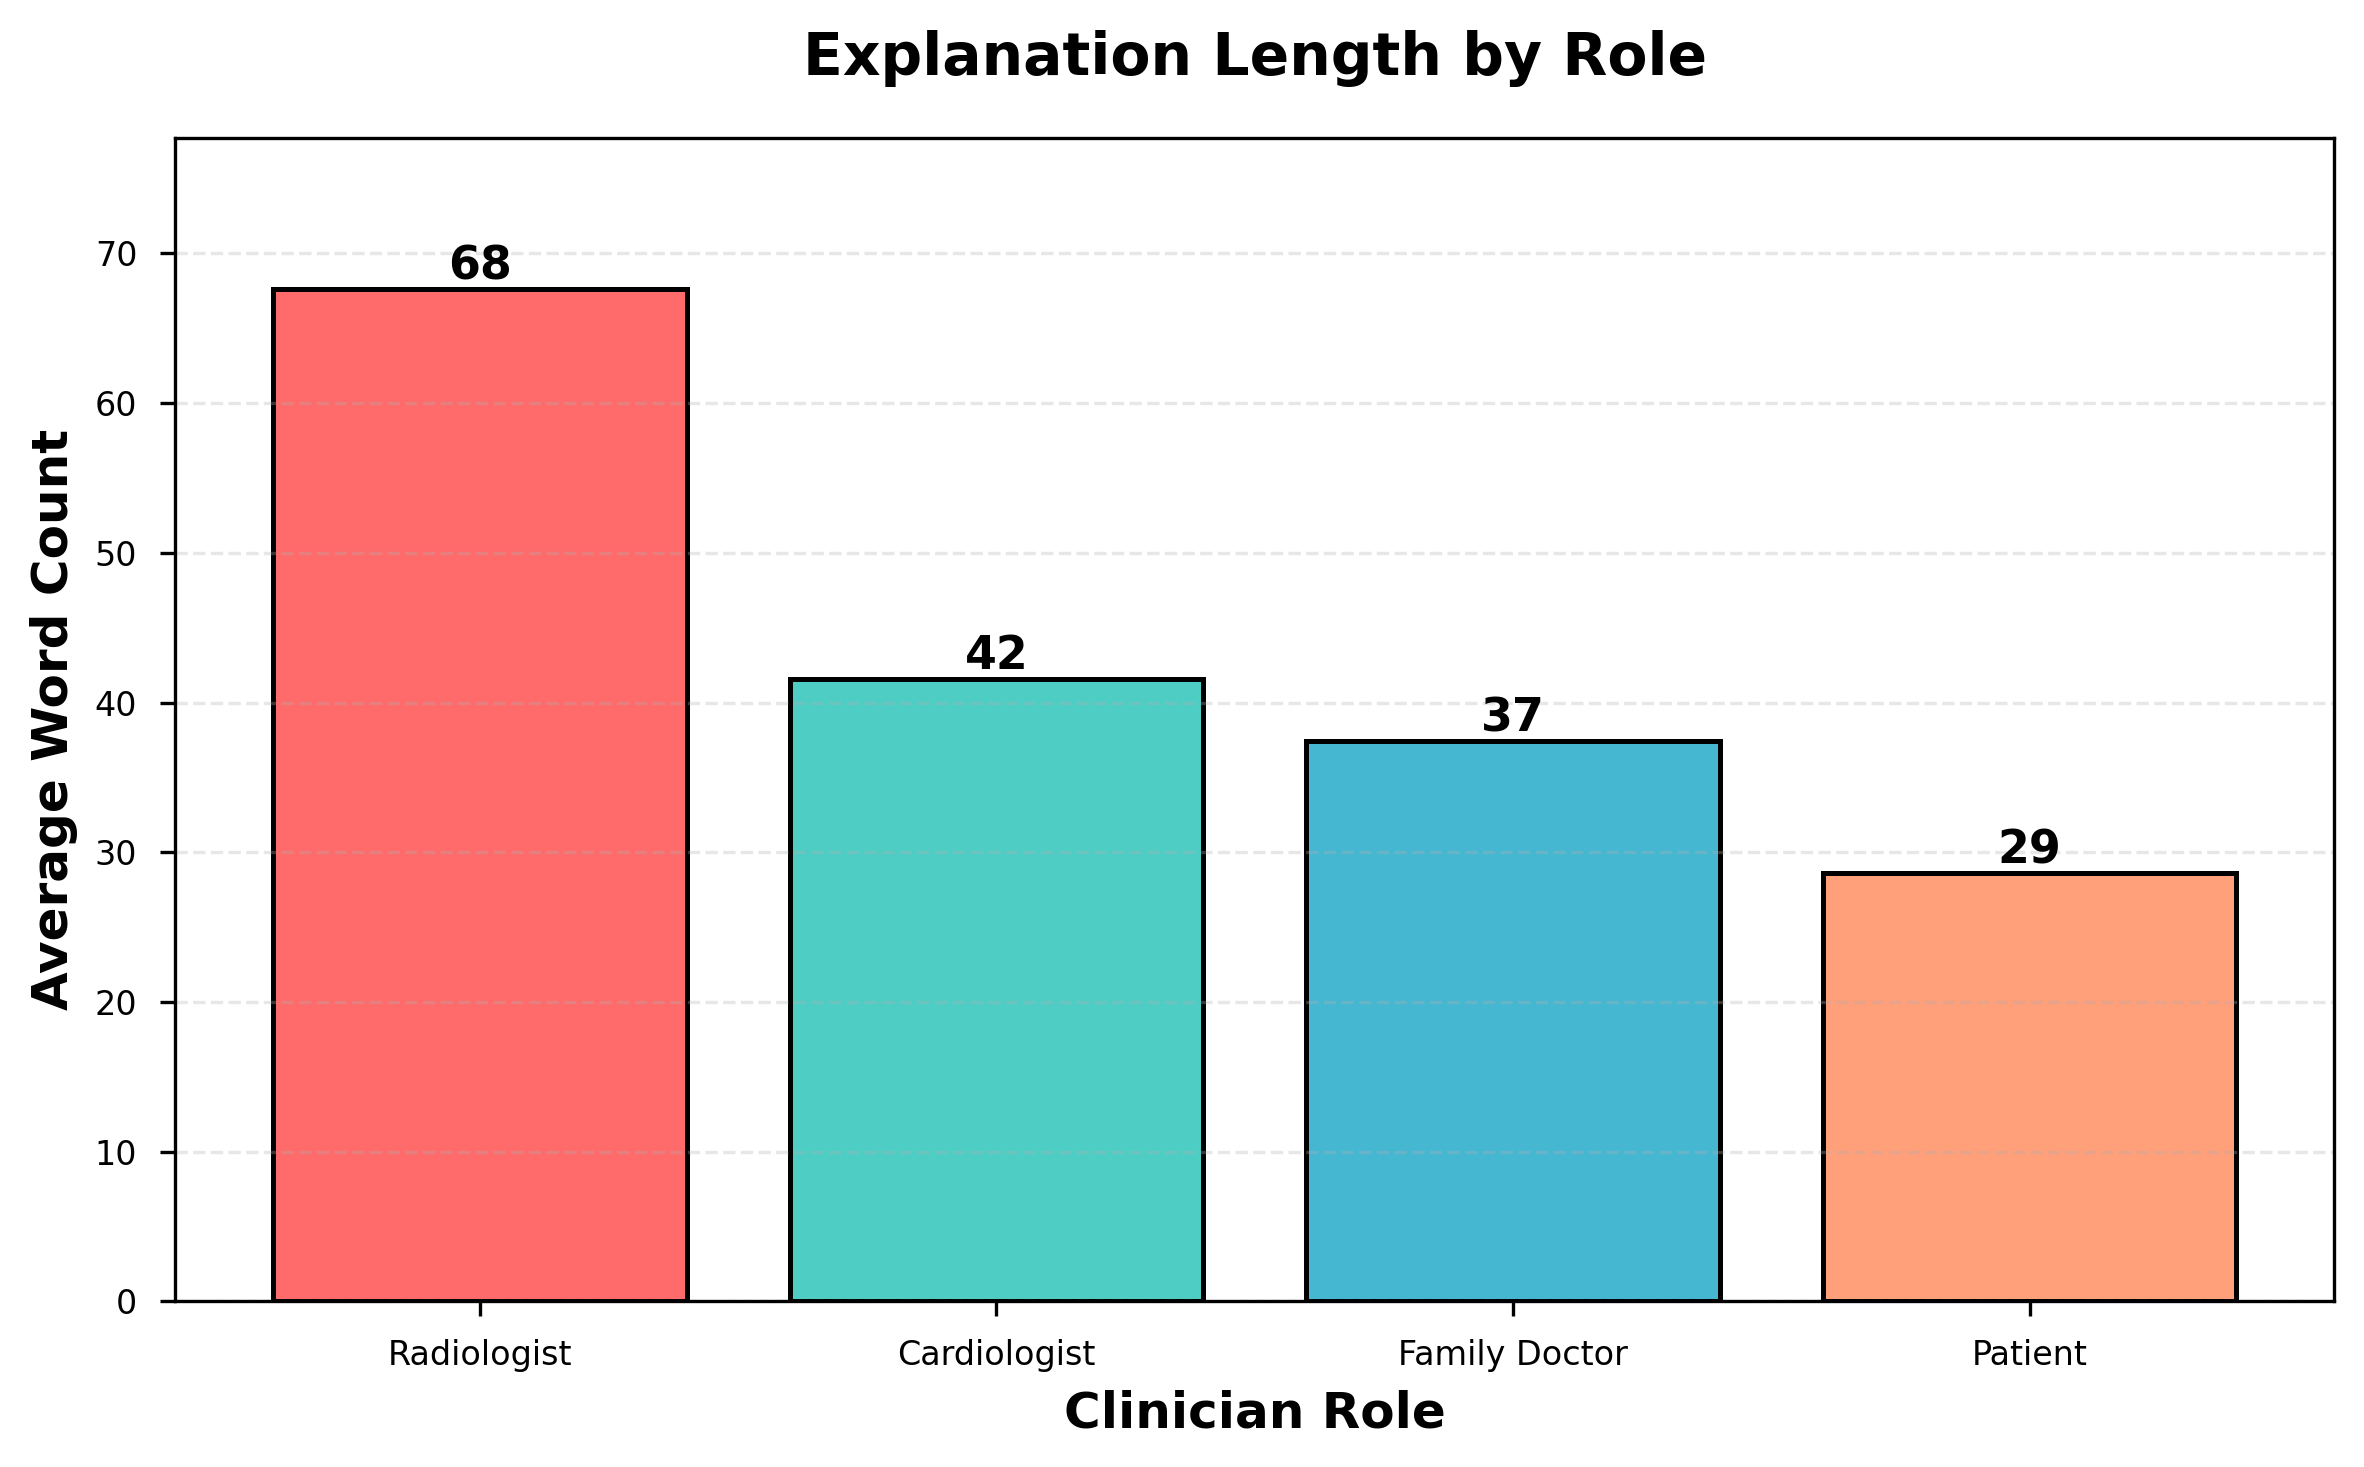
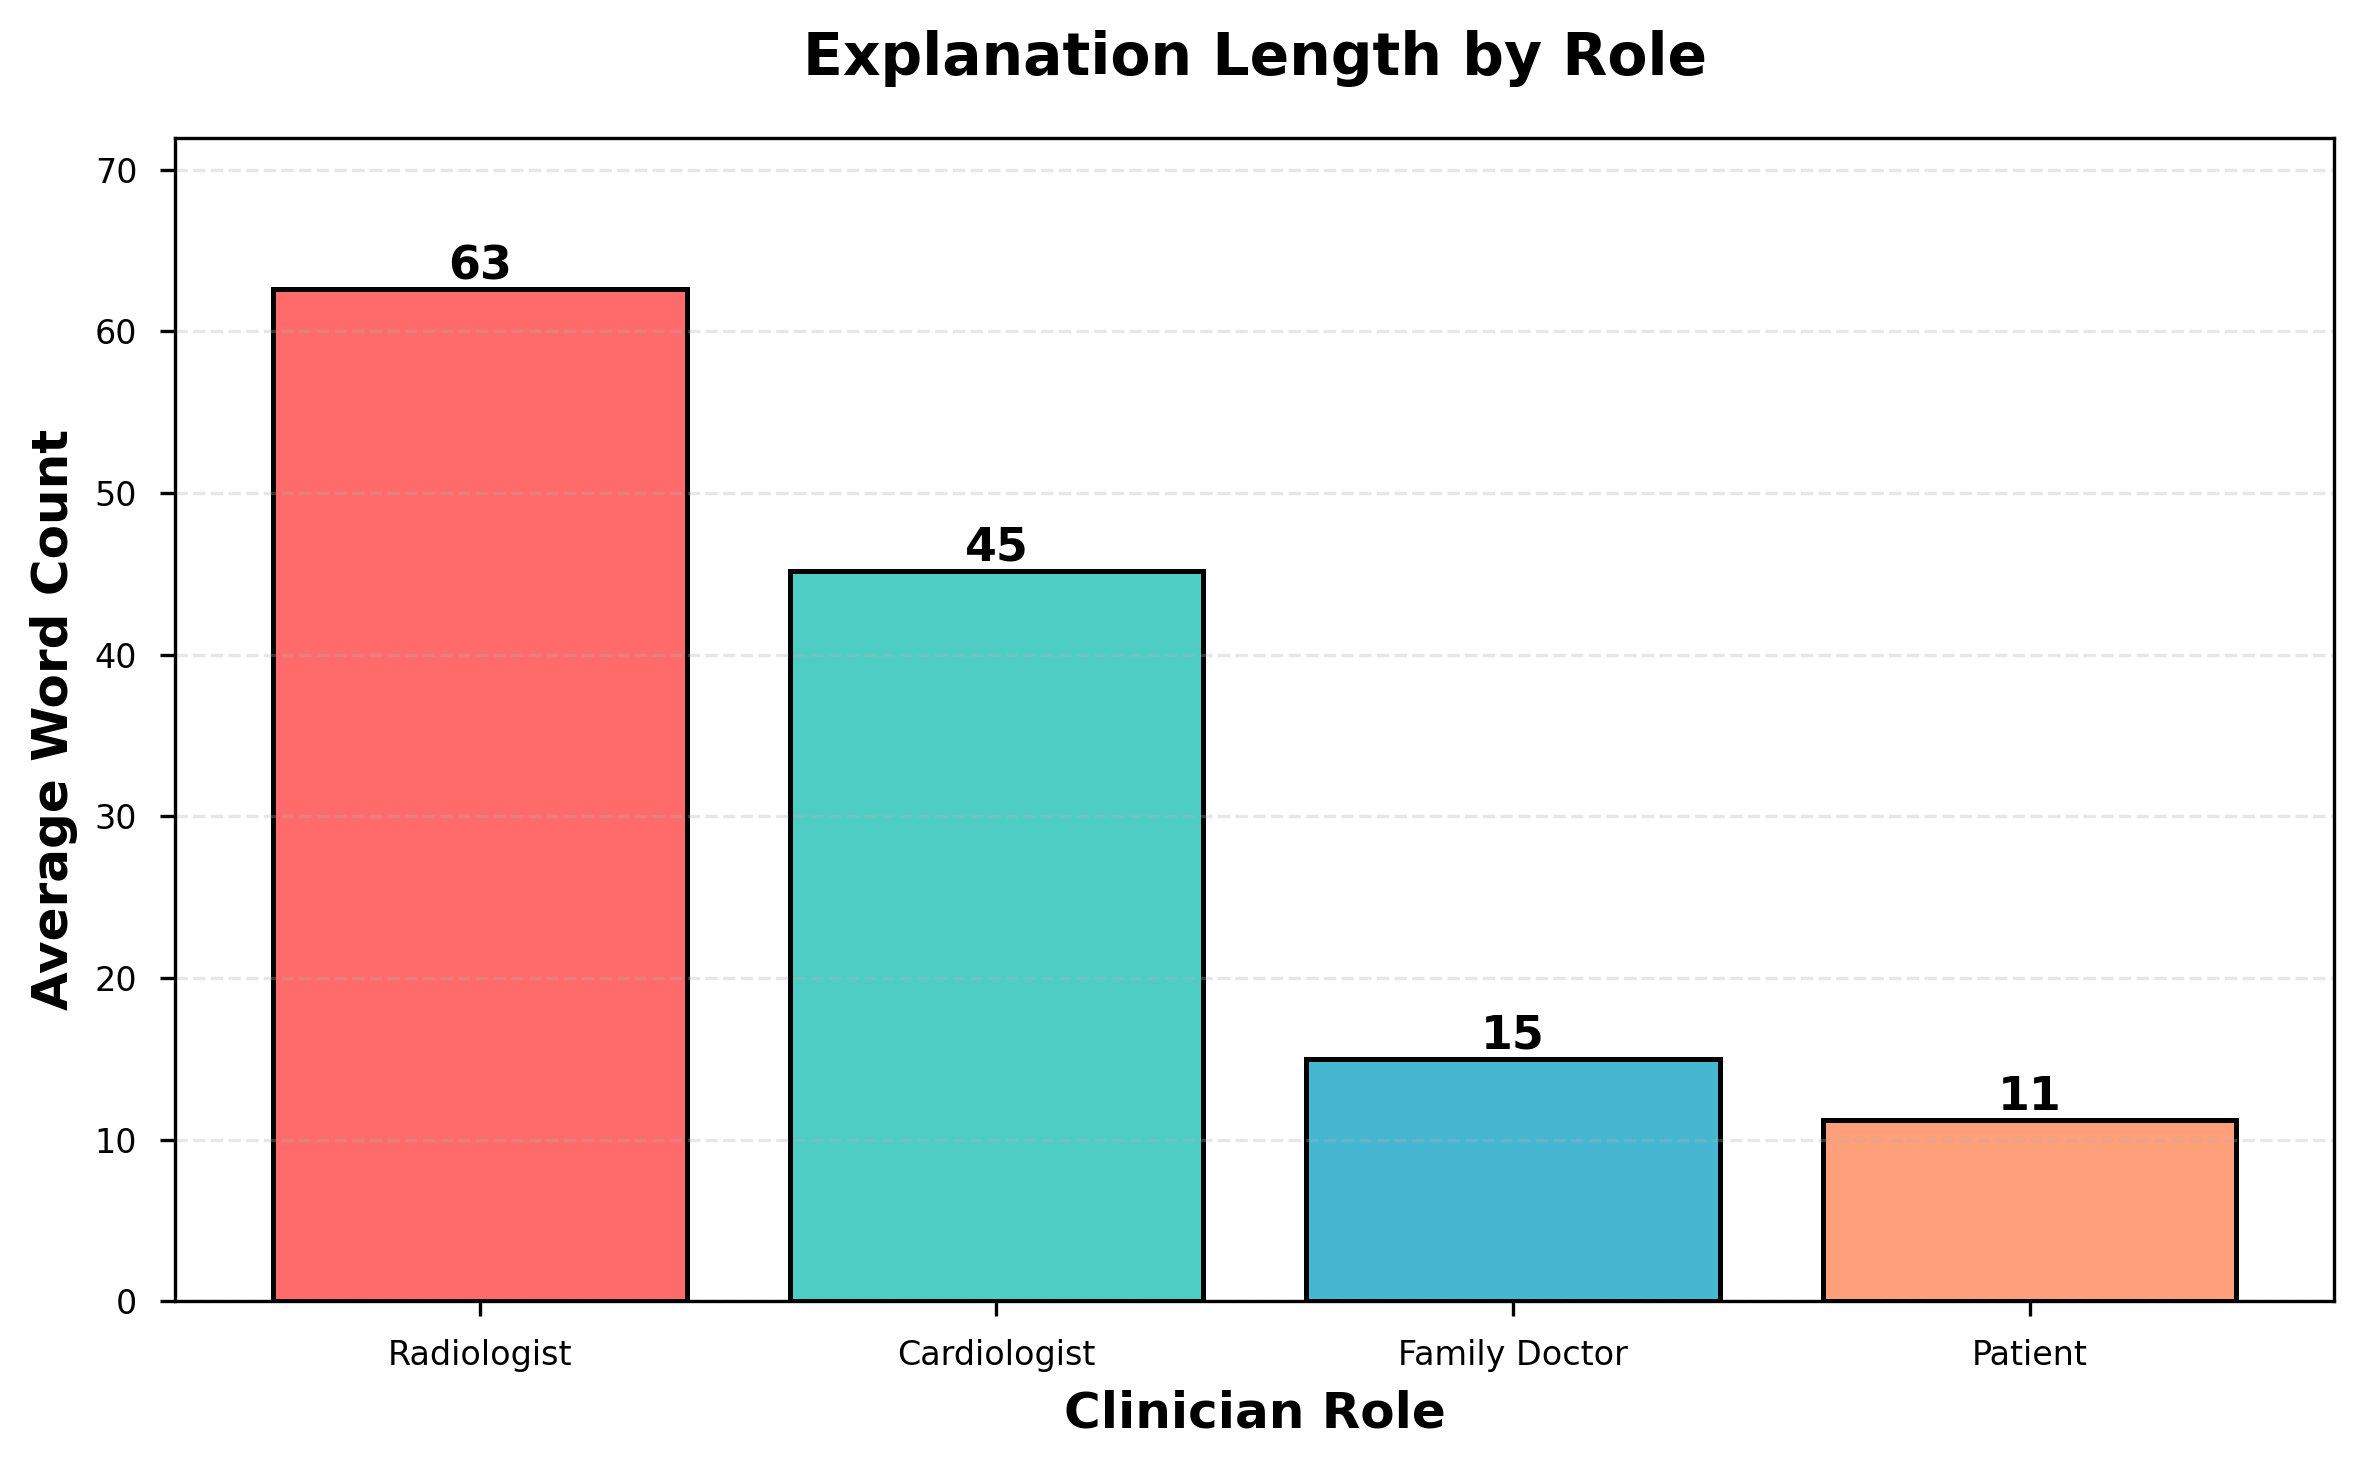
Graphs fixed

diff --git a/code/2_generate_explanations.py b/code/2_generate_explanations.py
@@ -89,48 +89,59 @@ def create_prompt(patient_data, top_features_info, role):
 Patient Data: {patient_str}
 Most Important Risk Factors (by SHAP analysis): {top_features_info}
 
-Provide a TECHNICAL explanation using precise medical terminology. Include:
-- Specific cardiovascular imaging correlates
-- Quantitative risk stratification terminology
-- Reference to vessel disease burden if applicable
+Provide a HIGHLY TECHNICAL explanation using advanced medical terminology. Include:
+- Specific cardiovascular imaging correlates and anatomical references
+- Quantitative risk stratification using clinical scoring systems
+- Detailed vessel disease burden assessment
+- Technical SHAP value interpretation
 
-Keep response under 110 words. Be technical and precise. Use medical jargon.""",
+IMPORTANT: Write at a GRADUATE-LEVEL medical complexity (Flesch-Kincaid Grade 14-16).
+Use specialized radiology terminology, quantitative metrics, and precise clinical nomenclature.
+Keep response under 110 words.""",
 
         'cardiologist': f"""You are a cardiologist explaining heart disease risk to another physician.
 
 Patient Data: {patient_str}
 Key Risk Factors (SHAP importance): {top_features_info}
 
-Provide a CLINICAL explanation including:
-- Pathophysiological significance of findings
-- Clinical decision points
-- Recommended follow-up actions (e.g., cardiology referral, stress test)
+Provide a COMPREHENSIVE CLINICAL explanation including:
+- Pathophysiological mechanisms linking risk factors to outcomes
+- Hemodynamic and electrophysiological significance
+- Evidence-based clinical decision points
+- Specific diagnostic and therapeutic recommendations
 
-Keep response under 90 words. Use medical language but focus on actionable clinical steps.""",
+IMPORTANT: Write at MEDICAL SCHOOL level complexity (Flesch-Kincaid Grade 12-14).
+Use clinical cardiology terminology but focus on actionable management.
+Keep response under 100 words.""",
 
-        'family_doctor': f"""You are a family doctor explaining heart disease risk assessment to yourself for patient management.
+        'family_doctor': f"""You are a family doctor explaining heart disease risk to a colleague in primary care.
 
 Patient Data: {patient_str}
 Main Risk Factors: {top_features_info}
 
-Provide a BALANCED explanation that:
-- Uses medical terms but keeps explanations practical
-- Focuses on next steps (lifestyle, specialist referral, medications)
-- Balances detail with clarity
+Provide a SIMPLE, PRACTICAL explanation that:
+- AVOIDS complex medical jargon - use plain medical terms only
+- Uses short sentences (under 15 words each)
+- Focuses on practical next steps: lifestyle, referral, basic medications
+- Prioritizes clarity over technical precision
 
-Keep response under 75 words. Be clear and actionable for primary care.""",
+CRITICAL: Write at HIGH SCHOOL reading level (Flesch-Kincaid Grade 8-10).
+NO abbreviations, NO complex terminology, NO multi-syllable medical words.
+Keep response under 60 words. Be brief and actionable.""",
 
-        'patient': f"""You are explaining heart disease risk to a patient with no medical background who just received test results.
+        'patient': f"""You are explaining heart disease risk to a patient who has never studied medicine.
 
 Key Risk Factors Found: {top_features_info}
 
-Provide a SIMPLE, ENCOURAGING explanation that:
-- Uses everyday language (absolutely NO medical jargon)
-- Explains what these findings mean for their health
-- Focuses on what the patient CAN DO (lifestyle changes, seeing specialist)
-- Remains positive and supportive
+Provide an EXTREMELY SIMPLE explanation that:
+- Uses only everyday words a 10-year-old would understand
+- Uses very short sentences (under 10 words each)
+- Focuses on feelings and actions, not medical facts
+- Is warm, encouraging, and supportive
 
-Keep response under 55 words. Be warm, clear, and motivating."""
+CRITICAL: Write at ELEMENTARY SCHOOL reading level (Flesch-Kincaid Grade 5-6).
+NO medical words at all. NO numbers or statistics.
+Keep response under 45 words. Be kind and hopeful."""
     }
     
     return prompts[role]
